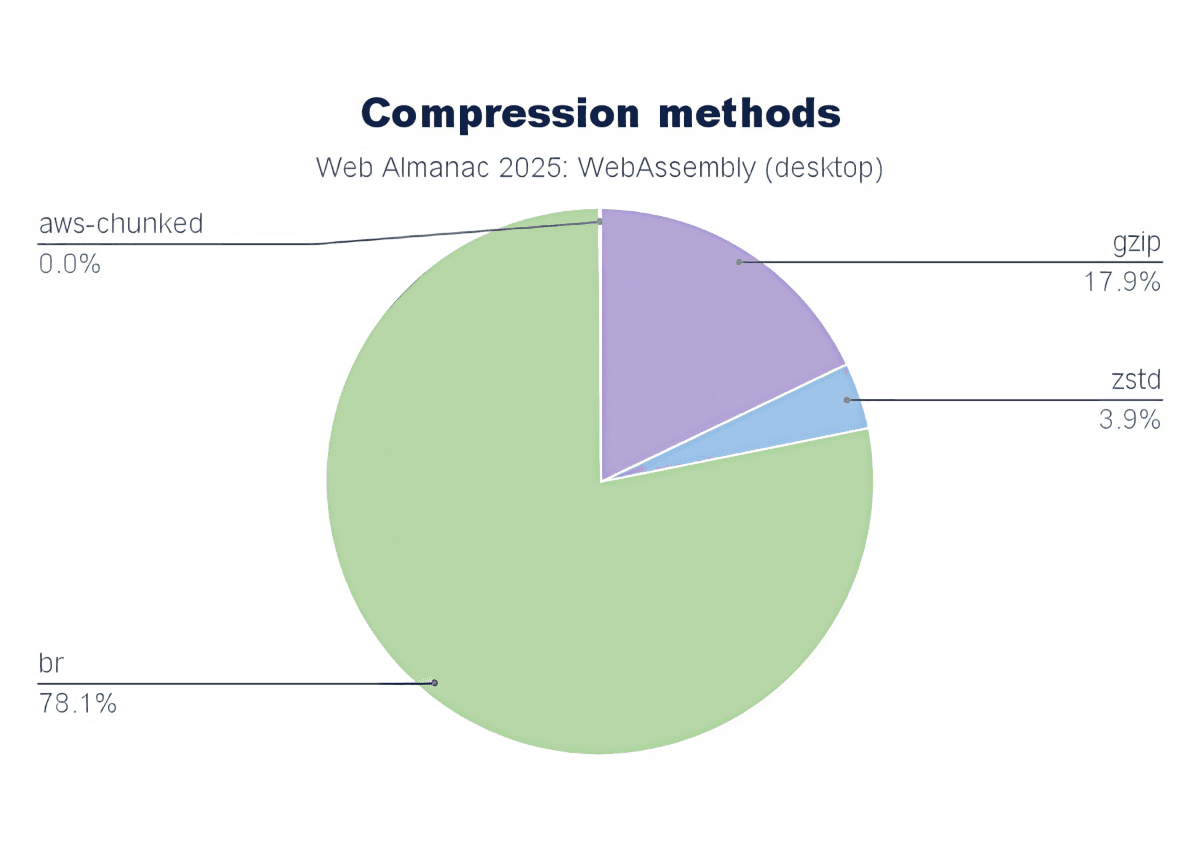
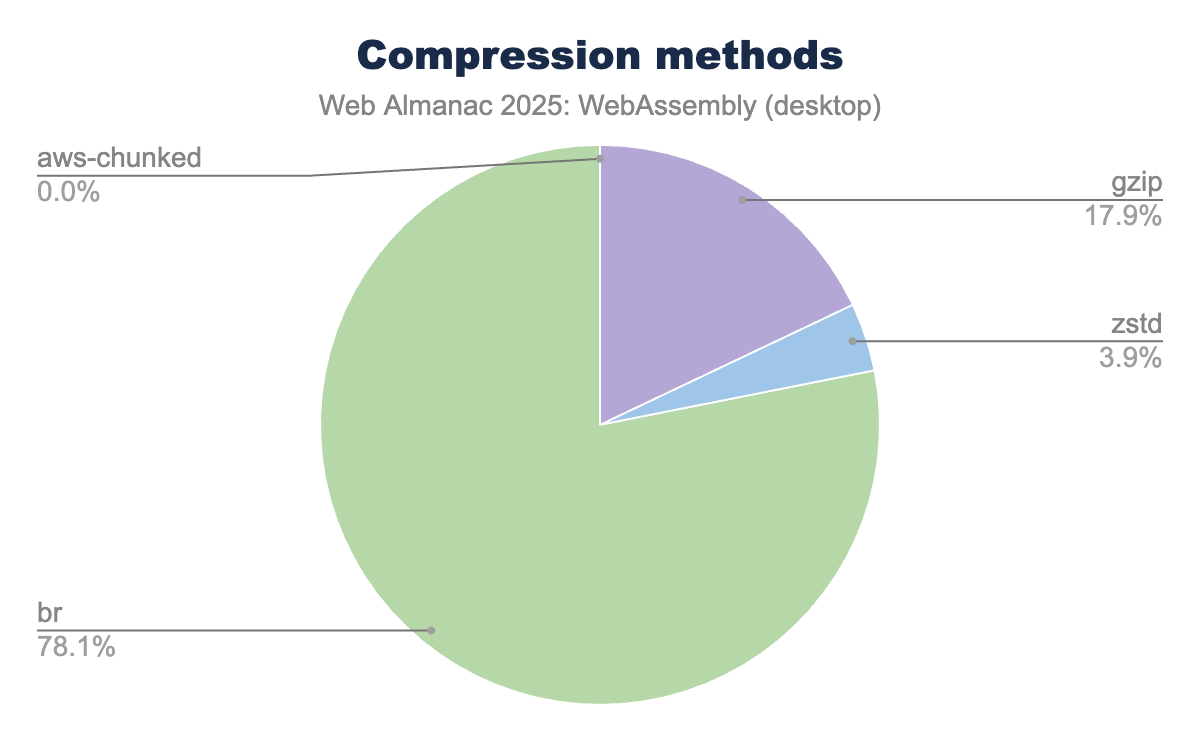
Retake images

diff --git a/src/content/en/2025/webassembly.md b/src/content/en/2025/webassembly.md
@@ -41,8 +41,8 @@ We have enhanced ([wasm-stats](https://github.com/HTTPArchive/wasm-stats)) and i
   2. Accept huge number of input in the format of **BigQuery's JSONL result**.
   3. **Validate Wasm** and provide insights with Binary Toolkit that helps to improve stats (ref. wasm2wat)
   4. **Run and Trace tasks activities concurrently** i.e. wasm file downloading, validating and populating stats.
-  5. **Enhances language identifiers** for old rust implimentation 
-  ([wasm-stats](https://github.com/HTTPArchive/wasm-stats)) and added new languages : Scala, Dotnet/Mono, Go & TinyGo, TeaVM based languages, Kotlin; This reduces the language usage : "Unknown" numbers 
+  5. **Enhances language identifiers** for old rust implimentation
+  ([wasm-stats](https://github.com/HTTPArchive/wasm-stats)) and added new languages : Scala, Dotnet/Mono, Go & TinyGo, TeaVM based languages, Kotlin; This reduces the language usage : "Unknown" numbers
   and improves language stats.
   6. Produce **full Wasm language usage stats** along with validation and download failures.
   7. Tool's **plug-n-play architecture** that helps to introduce new stats with WebAssembly Toolkit / SDK  in JSON existing stats format for future enhancements.
@@ -148,7 +148,7 @@ The above chart shows the size of response body size, It is often called as "raw
 }}
 
 {{ figure_markup(
-  image="compression-methods-desktop-client.png",
+  image="compression-methods-mobile-client.png",
   caption="Compression methods used for mobile clients",
   description="Pie chart shows compression methods br, gzip and zstd along with couple of records for aws_chunked, It shows Wasm are widely transfer with 'br' compressed method covers 80.1%, gzip compression method 17.9% and zstd compression method covers 3.9% for mobile clients",
   chart_url="https://docs.google.com/spreadsheets/d/e/2PACX-1vSXX1UpspK3gNeMVyApXrSYk42_Wmeh9RVpGarOFbs9EVbuU8wDyQh72Mu9PckmNat2wRqfP4kVAOki/pubchart?oid=1994486126&format=interactive",
@@ -201,7 +201,7 @@ Next, we analyze the import names within WebAssembly binaries to understand the 
 
 We find that System (43%), <a hreflang="en" href=" https://learn.microsoft.com/en-us/aspnet/core/blazor/webassembly-build-tools-and-aot?view=aspnetcore-10.0">Microsoft</a> (23%), RXEngine (6%), and <a hreflang="en" href="https://devblogs.microsoft.com/dotnet/extending-web-assembly-to-the-cloud/">Dotnet</a> (6%) are the most popular libraries or frameworks used in WebAssembly modules, indicating Microsoft's dominance within this ecosystem, driven specifically by the Dotnet and <a hreflang="en" href="https://learn.microsoft.com/en-us/aspnet/core/blazor/hosting-models?view=aspnetcore-10.0#blazor-webassembly">Blazor</a> frameworks.
 
-Microsoft has various WebAssembly libraries and framework for functionality of System utilities, Identity, Networking, Storage, Json and many more for reusable libraries. By combining those libraries and framework(s), Microsoft eco system for WebAssembly covers 78.8% and 79.3% respectively for desktop and mobile client. 
+Microsoft has various WebAssembly libraries and framework for functionality of System utilities, Identity, Networking, Storage, Json and many more for reusable libraries. By combining those libraries and framework(s), Microsoft eco system for WebAssembly covers 78.8% and 79.3% respectively for desktop and mobile client.
 
 ## WebAssembly languages
 
